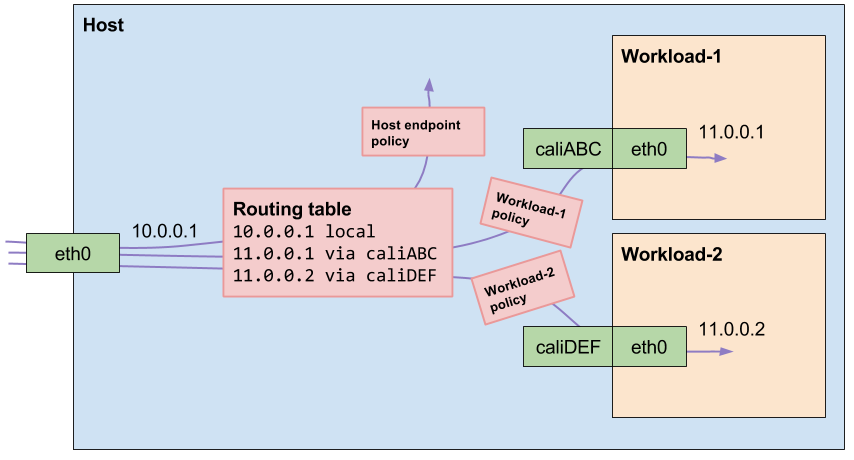
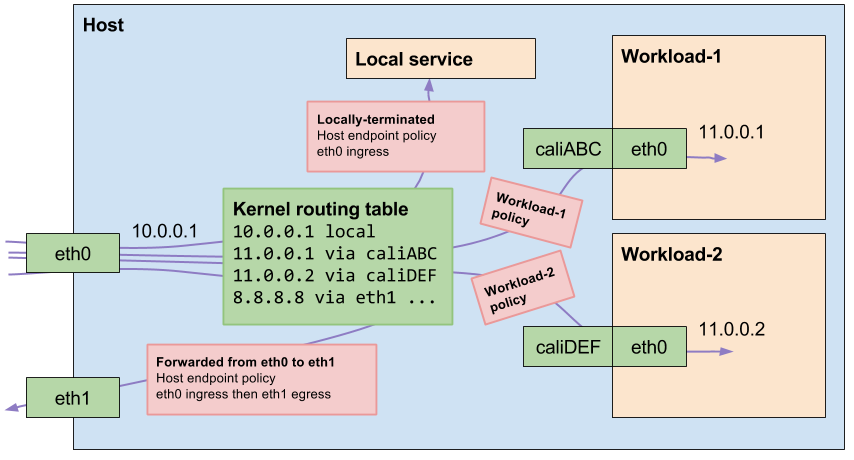
Add note about applying policy to forwarded traffic.

diff --git a/master/getting-started/bare-metal/bare-metal.md b/master/getting-started/bare-metal/bare-metal.md
@@ -36,6 +36,9 @@ to/from other interfaces is left alone.
 > case, the host endpoint policy would need to be very broad to allow all
 > traffic destined for any possible workload.
 >
+> Since version 2.1.0, Calico applies host endpoint policy to traffic that is
+> being forwarded between host interfaces.
+>
 > ![]({{site.baseurl}}/images/bare-metal-packet-flows.png)
 
 ## Overview
